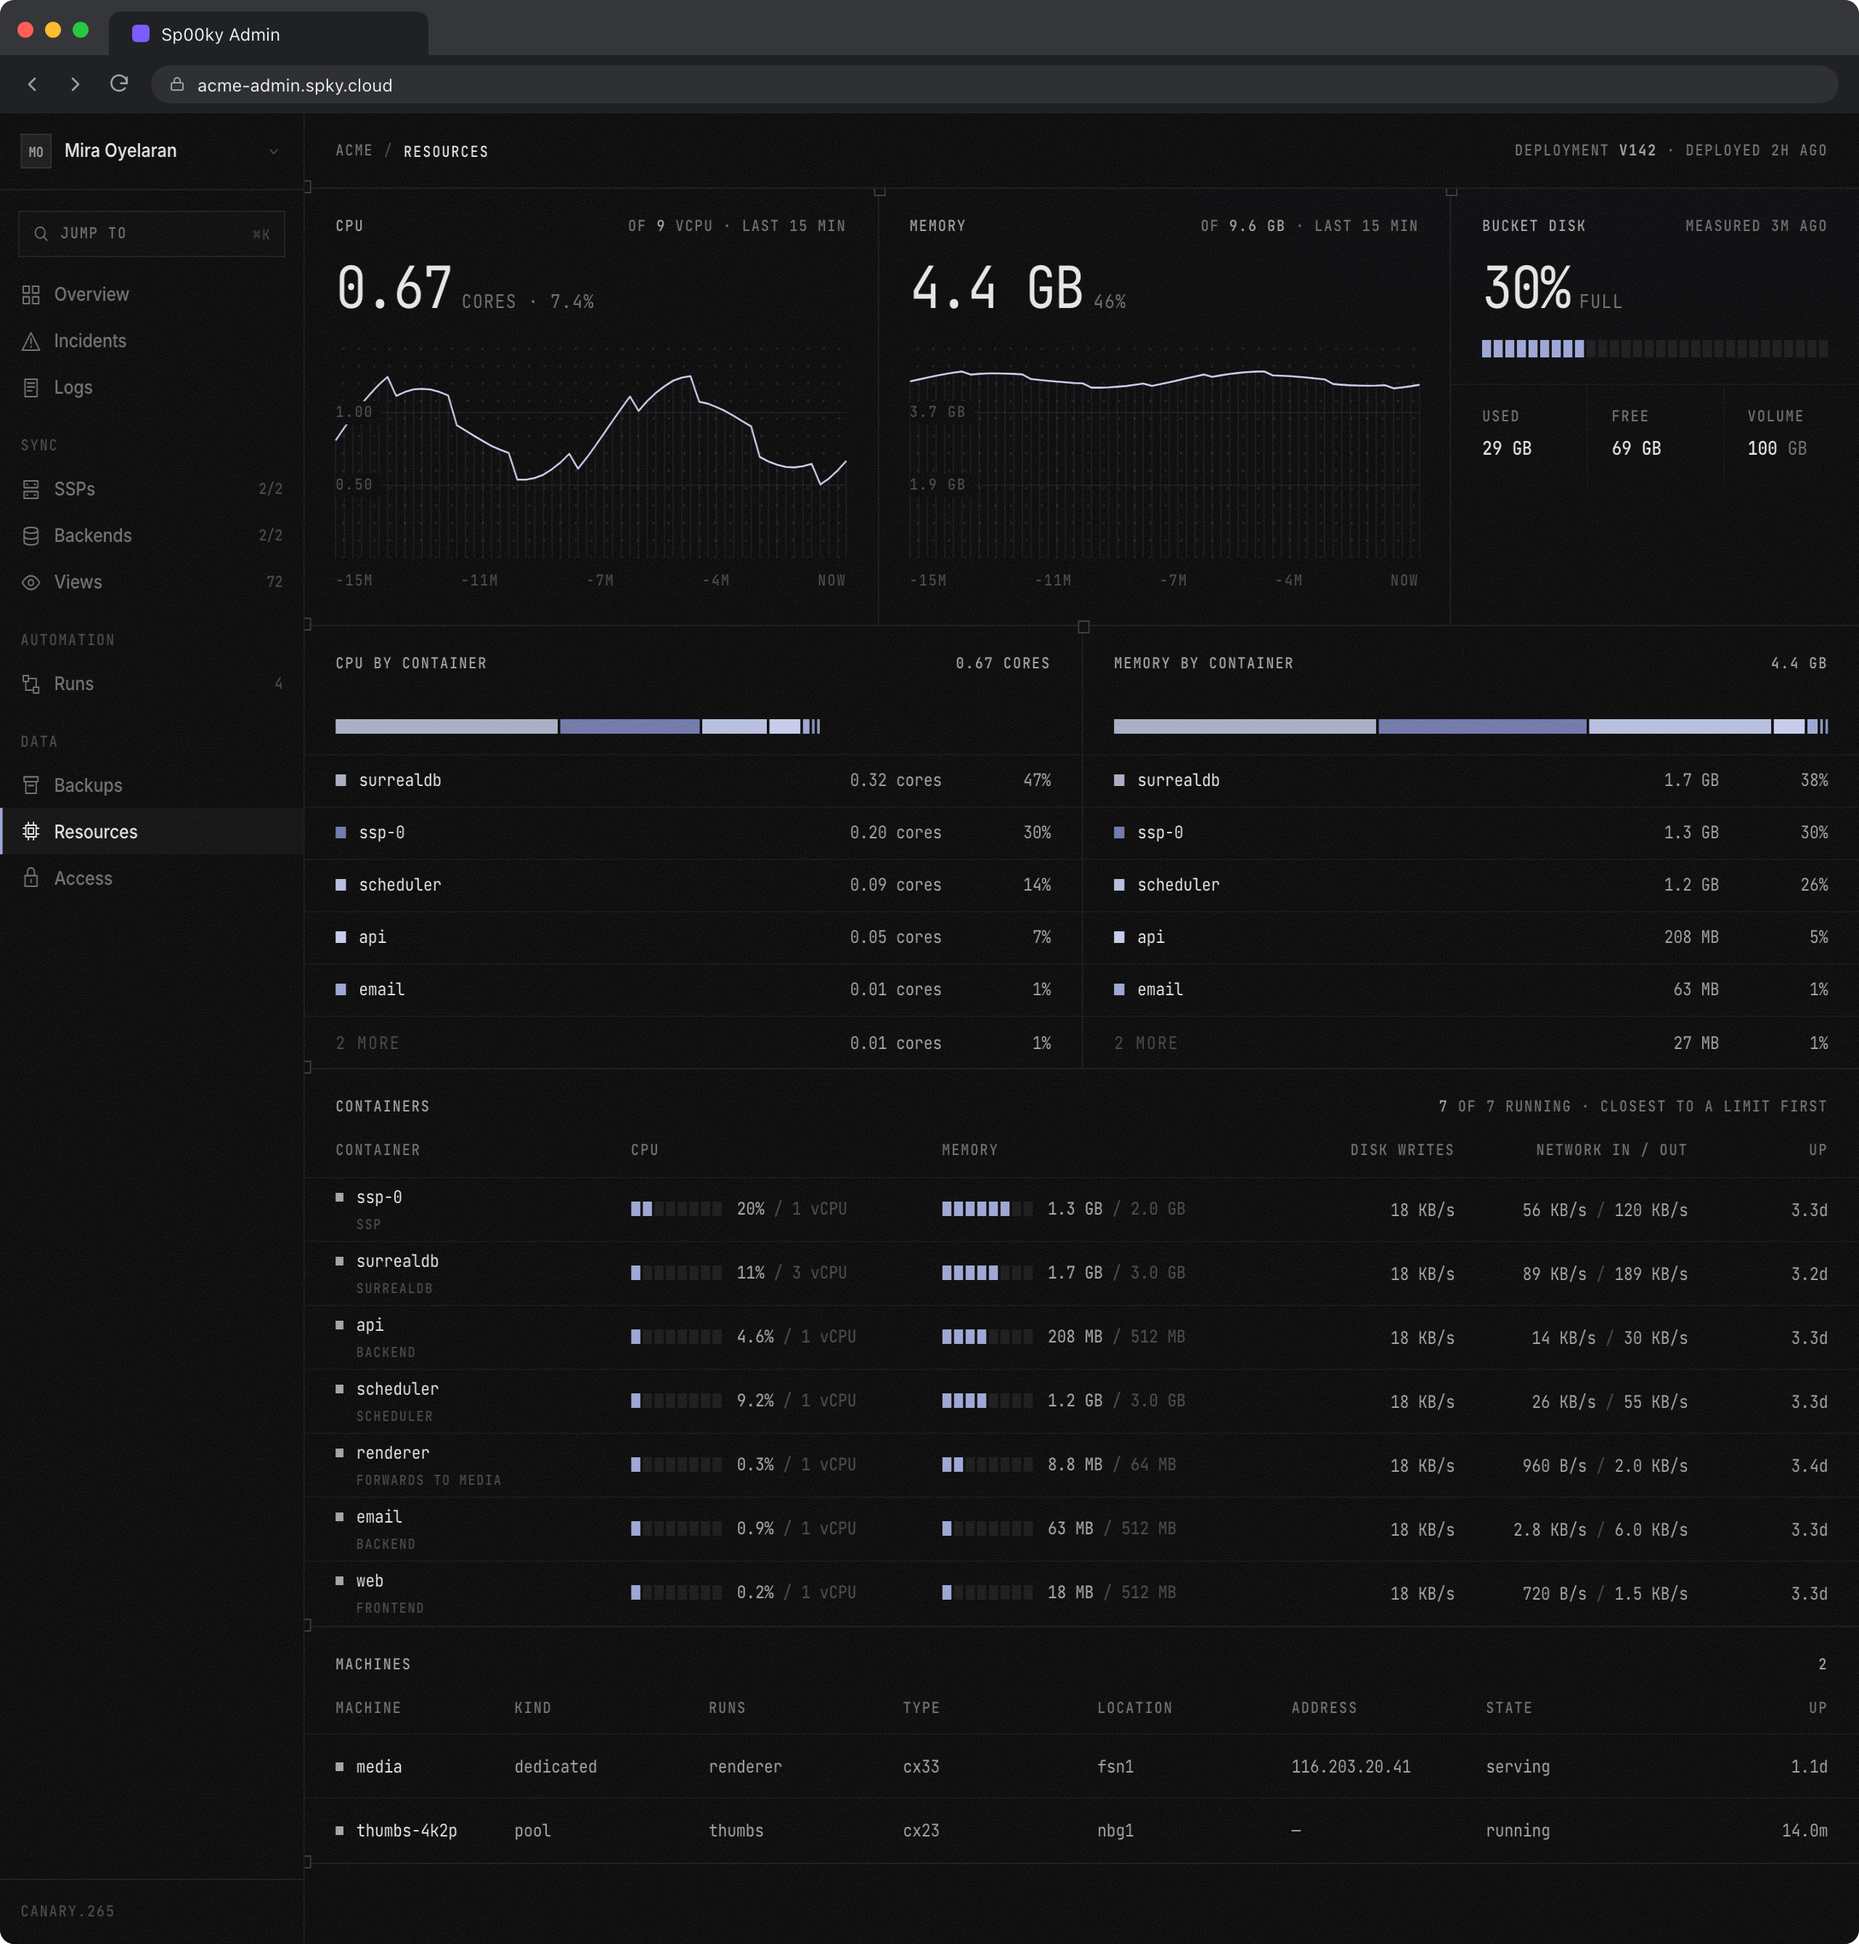
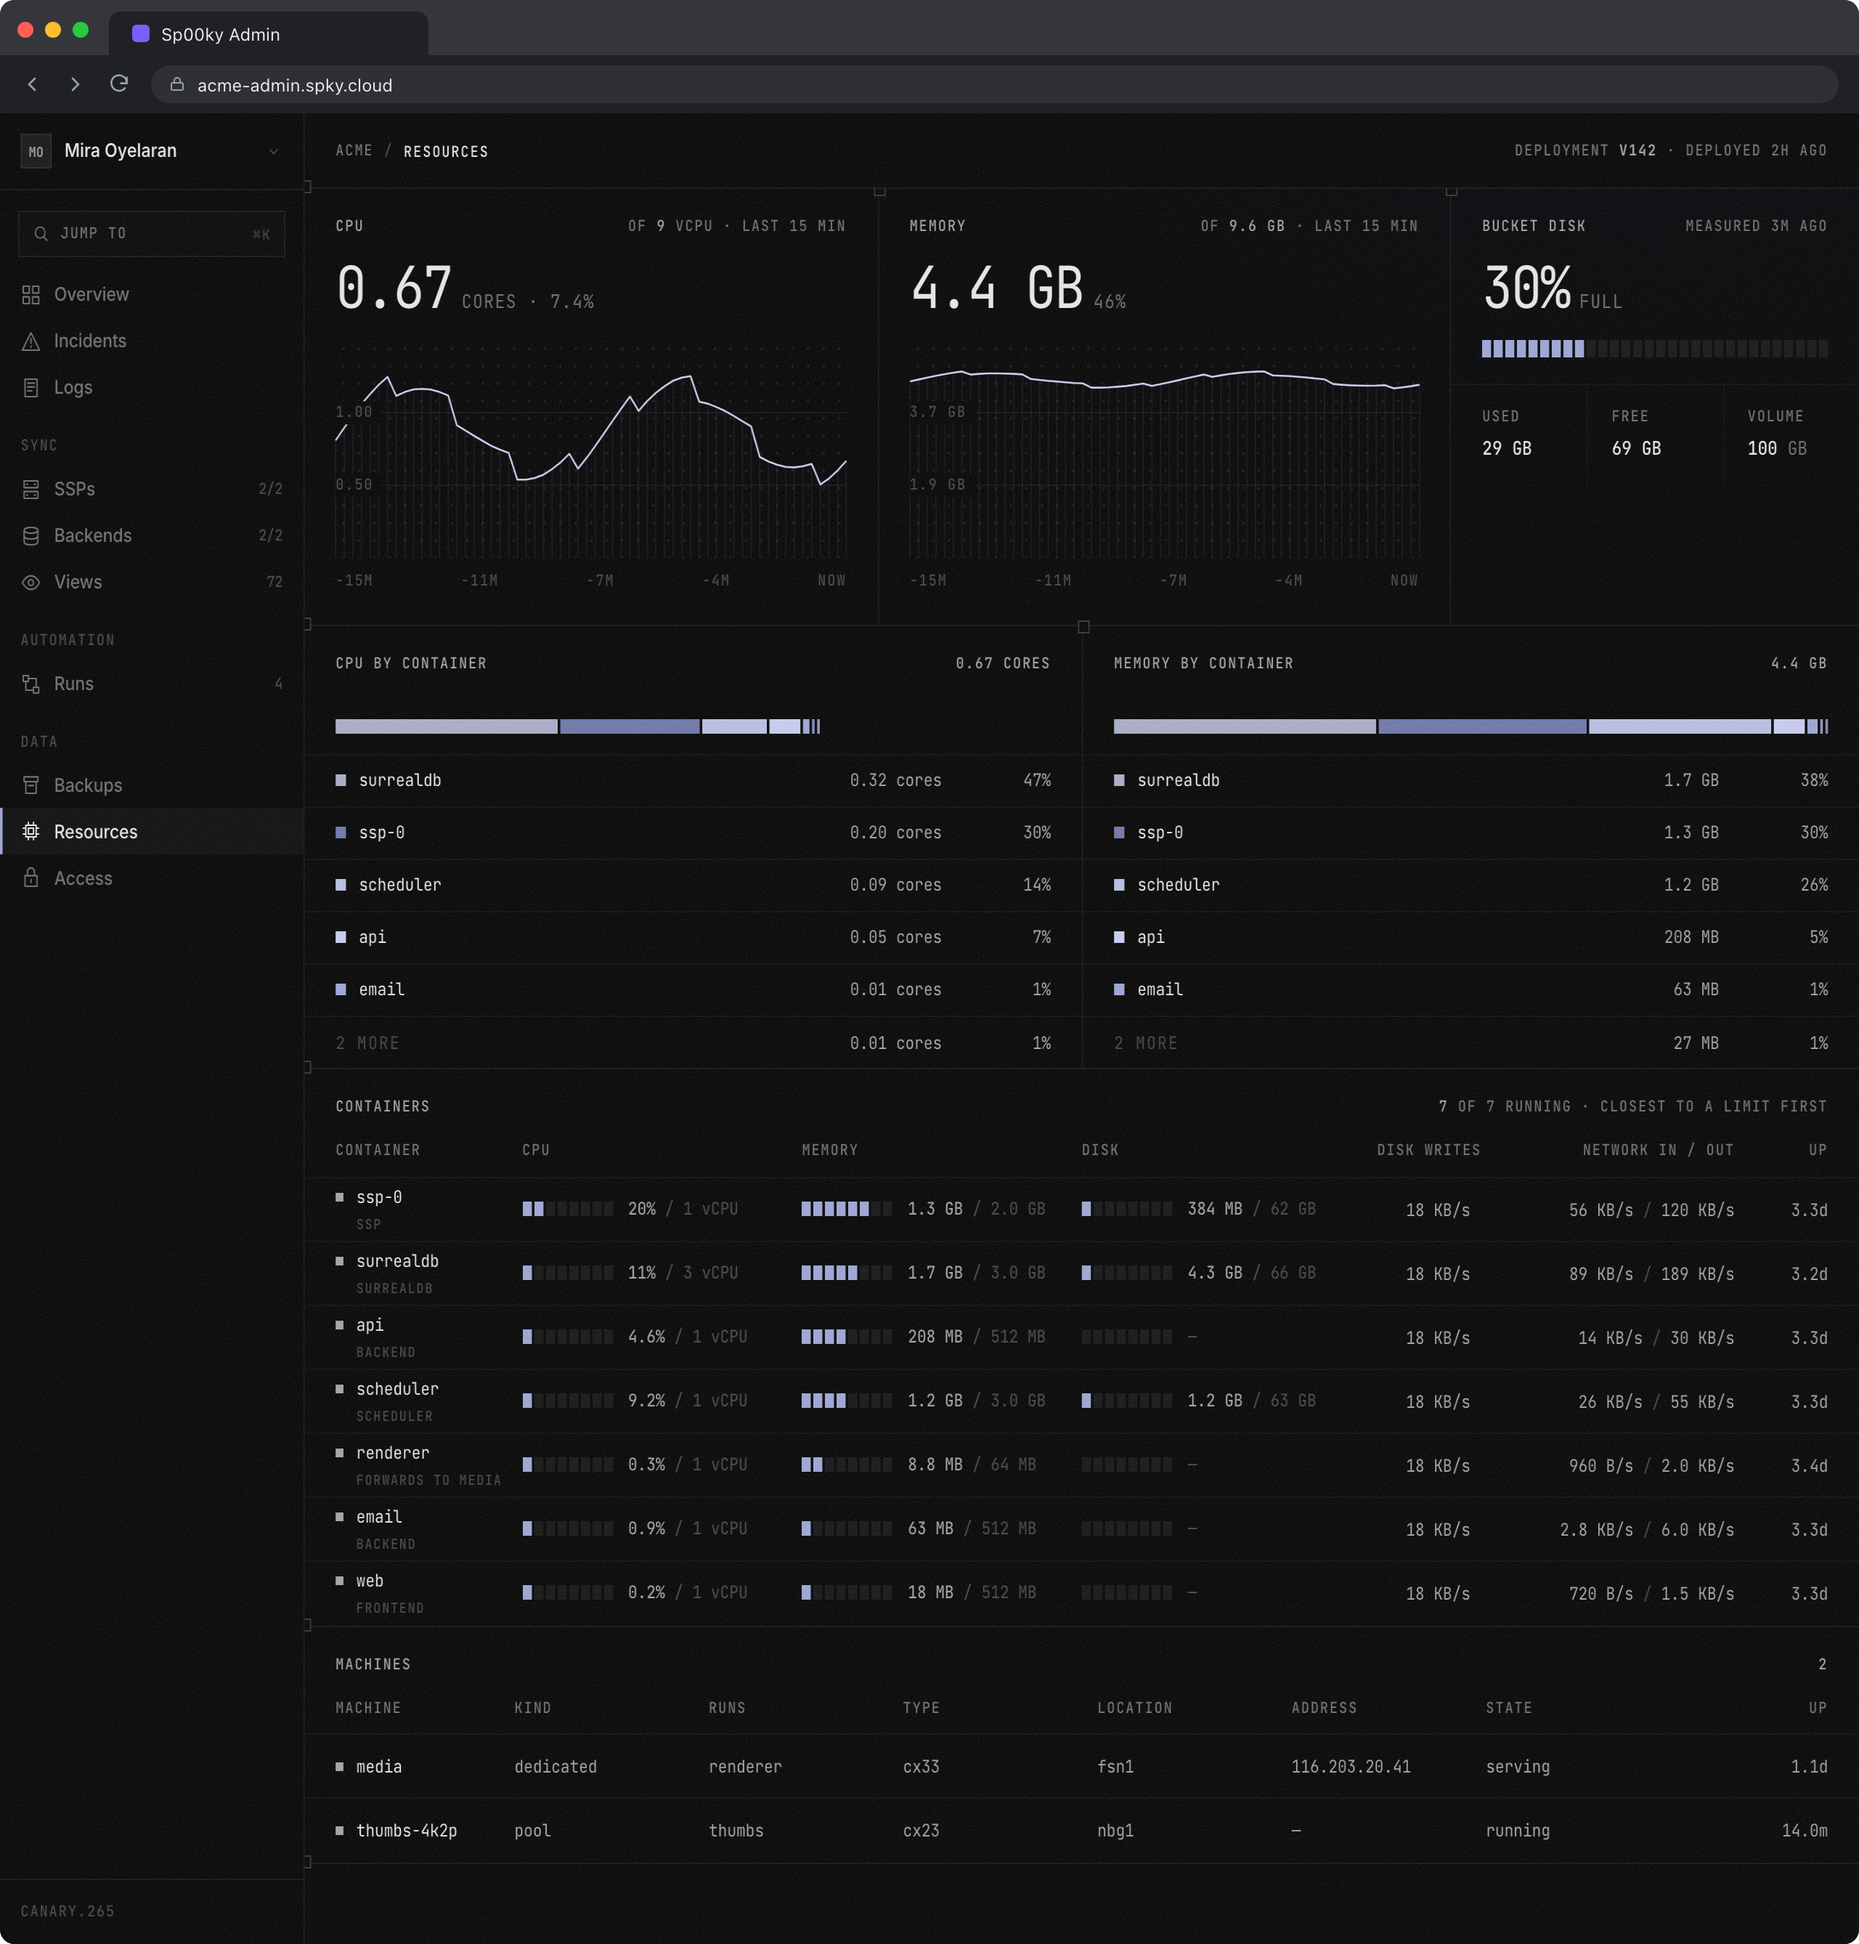
feat(dashboard): disk usage on the Overview, SSP rows and Resources
The Overview's Disk gauge was hard-wired to "not reported". Sp00ky Cloud
now measures the volumes each container keeps its data on (spooky-cloud
#7) and /cloud/stats carries them as `disk` on every service, so:

- the database and scheduler tiles show what their volumes take against
  that plus what is free on the host disk, with the free space and when
  it was measured under the bar;
- each SSP row has its disk as a fourth fact;
- the Resources containers table has a Disk column (on a phone the
  writes, network and uptime columns and the meter bars give way).

A control plane without the measurement still reads "not reported".

diff --git a/apps/dashboard/src/routes/Resources.tsx b/apps/dashboard/src/routes/Resources.tsx
@@ -45,6 +45,11 @@ const memLimit = (s: CloudService) => s.sample?.mem_limit_bytes || s.memory_mb *
 /** CPU as a share of the container's vCPUs; `cpu_pct` is per core. */
 const cpuPct = (s: CloudService) => (s.sample && s.vcpus > 0 ? s.sample.cpu_pct / s.vcpus : null);
 const memPct = (s: CloudService) => (s.sample ? (s.sample.mem_bytes / memLimit(s)) * 100 : null);
+/** Its volumes against the room they have: what they take plus what the host disk has free. */
+const volumesPct = (s: CloudService) => {
+  const room = s.disk ? s.disk.used_bytes + s.disk.free_bytes : 0;
+  return s.disk && room > 0 ? (s.disk.used_bytes / room) * 100 : null;
+};
 
 /** How close a container is to any limit; a stopped one sorts first. */
 function pressure(s: CloudService): number {
@@ -237,14 +242,15 @@ export function Resources() {
             <section class="fx-row">
               <FxCell label="Containers" meta={<span><b>{running().length}</b> of {services().length} running · closest to a limit first</span>}>
                 <Show when={services().length} fallback={<div class="fx-empty cap">No containers are running</div>}>
-                  <table class="fx-list">
+                  <table class="fx-list rs-containers">
                     <colgroup>
-                      <col style={{ width: '20%' }} /><col style={{ width: '20%' }} /><col style={{ width: '24%' }} />
-                      <col style={{ width: '11%' }} /><col style={{ width: '15%' }} /><col style={{ width: '10%' }} />
+                      <col style={{ width: '13%' }} /><col style={{ width: '18%' }} /><col style={{ width: '18%' }} />
+                      <col style={{ width: '19%' }} /><col style={{ width: '8%' }} /><col style={{ width: '17%' }} /><col style={{ width: '7%' }} />
                     </colgroup>
                     <thead>
                       <tr>
                         <th class="cap">Container</th><th class="cap">CPU</th><th class="cap">Memory</th>
+                        <th class="cap" title="its volumes, against what they take plus what is still free on the host disk">Disk</th>
                         <th class="cap r">Disk writes</th><th class="cap r">Network in / out</th><th class="cap r">Up</th>
                       </tr>
                     </thead>
@@ -270,6 +276,11 @@ export function Resources() {
                             <td>
                               <Meter pct={s.status === 'running' && s.sample ? memPct(s) : null}>
                                 {s.sample ? formatBytes(s.sample.mem_bytes) : '—'} <em>/ {formatBytes(memLimit(s))}</em>
+                              </Meter>
+                            </td>
+                            <td>
+                              <Meter pct={volumesPct(s)}>
+                                {formatBytes(s.disk?.used_bytes)} <em>/ {formatBytes(s.disk ? s.disk.used_bytes + s.disk.free_bytes : null)}</em>
                               </Meter>
                             </td>
                             <td class="r">{rate(s.sample?.disk_write_bps)}</td>

diff --git a/apps/dashboard/src/routes/Overview.tsx b/apps/dashboard/src/routes/Overview.tsx
@@ -17,7 +17,7 @@ import {
   usage,
 } from '../components/Frame';
 import { api } from '../api/client';
-import { formatCount, formatMs, formatRelativeTime, formatUptime } from '../lib/format';
+import { formatBytes, formatCount, formatMs, formatRelativeTime, formatUptime } from '../lib/format';
 import { backendTone, sspTone } from '../lib/status';
 import { retryJob } from '../lib/runActions';
 import type {
@@ -327,7 +327,7 @@ export function Overview(props: {
                   </span>
                 </span>
               </div>
-              <Usage use={dbUse()} />
+              <Usage use={dbUse()} now={now()} />
               <div class="fx-foot">
                 <div>
                   <span class="cap">Write to live</span>
@@ -368,7 +368,7 @@ export function Overview(props: {
                   </span>
                 </span>
               </div>
-              <Usage use={schedUse()} />
+              <Usage use={schedUse()} now={now()} />
               <div class="fx-foot">
                 <div>
                   <span class="cap">Ingest lag</span>
@@ -642,9 +642,10 @@ export function Overview(props: {
 }
 
 /** CPU, memory and disk of one container; "not reported" where unknown. */
-function Usage(props: { use: ReturnType<typeof usage> }) {
+function Usage(props: { use: ReturnType<typeof usage>; now: number }) {
   const mem = () => (props.use?.memBytes != null ? memText(props.use.memBytes) : null);
   const limit = () => (props.use ? memText(props.use.memLimit) : null);
+  const disk = () => (props.use?.diskBytes != null ? memText(props.use.diskBytes) : null);
   return (
     <div class="fx-gauges">
       <Gauge
@@ -663,8 +664,23 @@ function Usage(props: { use: ReturnType<typeof usage> }) {
         pct={props.use?.memPct ?? null}
         series={props.use?.memSeries}
       />
-      {/* Volume usage is not in the control plane's metrics yet. */}
-      <Gauge label="Disk" value={null} pct={null} />
+      <Gauge
+        label="Disk"
+        of={props.use?.diskRoom != null ? formatBytes(props.use.diskRoom) : undefined}
+        value={disk()?.value ?? null}
+        unit={disk()?.unit}
+        pct={props.use?.diskPct ?? null}
+        note={
+          props.use?.diskFree != null ? (
+            <>
+              <span>{formatBytes(props.use.diskFree)} free on host</span>
+              <Show when={props.use.diskAt}>
+                {(at) => <span>measured {formatUptime(Math.max(0, props.now - Date.parse(at())) / 1000)} ago</span>}
+              </Show>
+            </>
+          ) : undefined
+        }
+      />
     </div>
   );
 }

diff --git a/apps/dashboard/src/components/Frame.tsx b/apps/dashboard/src/components/Frame.tsx
@@ -127,6 +127,8 @@ export function Gauge(props: {
   unit?: string;
   pct: number | null;
   series?: number[];
+  /** In place of the trend, for a figure that has none. */
+  note?: JSX.Element;
 }) {
   return (
     <div class="fx-gauge">
@@ -148,7 +150,9 @@ export function Gauge(props: {
         </div>
       </Show>
       <Seg pct={props.pct} wide />
-      <Spark values={props.series ?? []} />
+      <Show when={props.note} fallback={<Spark values={props.series ?? []} />}>
+        <div class="fx-gnote cap">{props.note}</div>
+      </Show>
     </div>
   );
 }
@@ -169,6 +173,15 @@ export function usage(s: CloudService | undefined) {
     memLimit: limit,
     vcpus: s.vcpus,
     diskWriteBps: s.sample?.disk_write_bps ?? null,
+    // The room a container has is what it takes plus what is still free on
+    // the disk it shares: a host filling up shows here as well.
+    diskBytes: s.disk?.used_bytes ?? null,
+    diskFree: s.disk?.free_bytes ?? null,
+    diskRoom: s.disk ? s.disk.used_bytes + s.disk.free_bytes : null,
+    diskPct: s.disk && s.disk.used_bytes + s.disk.free_bytes > 0
+      ? (s.disk.used_bytes / (s.disk.used_bytes + s.disk.free_bytes)) * 100
+      : null,
+    diskAt: s.disk?.measured_at ?? null,
     since: s.since,
   };
 }

diff --git a/apps/dashboard/src/styles/frame.css b/apps/dashboard/src/styles/frame.css
@@ -884,6 +884,18 @@ tbody tr:hover > td {
   color: var(--ink-ghost);
 }
 
+/* a gauge without a trend (disk is measured every few minutes): the same
+   40px as the spark it stands in for, so gauges in a row stay level */
+.fx-gnote {
+  display: flex;
+  flex-direction: column;
+  justify-content: flex-end;
+  gap: 4px;
+  min-height: 40px;
+  margin-top: 12px;
+  color: var(--ink-ghost);
+}
+
 .fx-spark {
   display: block;
   width: 100%;
@@ -2288,6 +2300,12 @@ h2 {
   margin: 0 0 14px;
 }
 
+/* an SSP measured by Sp00ky Cloud has its disk as a fourth fact, on the
+   same line */
+.sp-facts:has(> :nth-child(4)) {
+  grid-template-columns: 1.3fr 0.8fr 1fr 0.9fr;
+}
+
 .sp-facts div {
   display: grid;
   gap: 3px;
@@ -3550,6 +3568,15 @@ h2 {
   .rn-sched td:nth-child(4),
   .rn-sched th:nth-child(6),
   .rn-sched td:nth-child(6) {
+    display: none;
+  }
+
+  .rs-containers th:nth-child(n + 5),
+  .rs-containers td:nth-child(n + 5) {
+    display: none;
+  }
+  .rs-containers .fx-meter em,
+  .rs-containers .fx-meter .fx-seg {
     display: none;
   }
 

diff --git a/apps/dashboard/src/routes/Ssps.tsx b/apps/dashboard/src/routes/Ssps.tsx
@@ -210,6 +210,12 @@ function SspRow(props: {
               <dt class="cap">Heartbeat</dt>
               <dd classList={{ warn: s().last_heartbeat_seconds_ago > 30 }}>{short(s().last_heartbeat_seconds_ago)} ago</dd>
             </div>
+            <Show when={props.use?.diskBytes != null}>
+              <div title={`circuit snapshot and row arena · ${formatBytes(props.use!.diskFree)} free on host`}>
+                <dt class="cap">Disk</dt>
+                <dd classList={{ warn: (props.use!.diskPct ?? 0) >= 80 }}>{formatBytes(props.use!.diskBytes)}</dd>
+              </div>
+            </Show>
           </dl>
           <DayTicks component={s().id} incidents={props.data.incidents?.recent} uptimeSecs={s().uptime_seconds} now={props.now} />
           <div class="sp-actions">

diff --git a/apps/dashboard/src/api/types.ts b/apps/dashboard/src/api/types.ts
@@ -970,6 +970,20 @@ export interface CloudService {
   /** The last 15 minutes, one point per 15 s, oldest first. */
   cpu_series: number[];
   mem_series: number[];
+  /**
+   * How much the container's volumes take, measured every few minutes, and
+   * the host disk they grow into (shared with every other container there).
+   * Null until measured, for a container without a volume, and from a control
+   * plane that predates it. The bucket volume is `bucket_volume` instead.
+   */
+  disk?: CloudServiceDisk | null;
+}
+
+export interface CloudServiceDisk {
+  used_bytes: number;
+  fs_bytes: number;
+  free_bytes: number;
+  measured_at: string;
 }
 
 export interface CloudDedicatedMachine {
